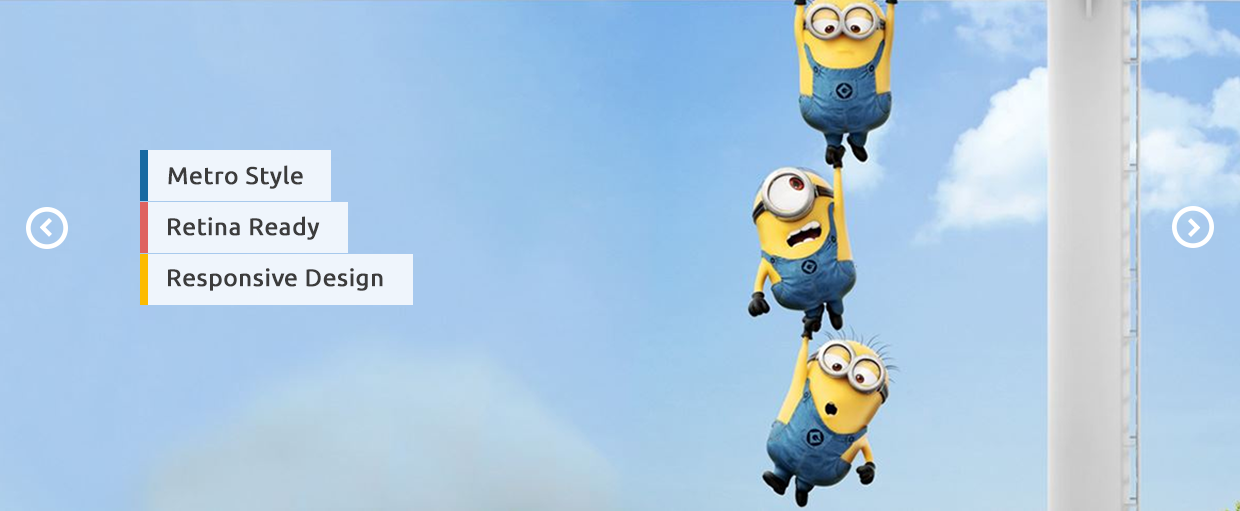
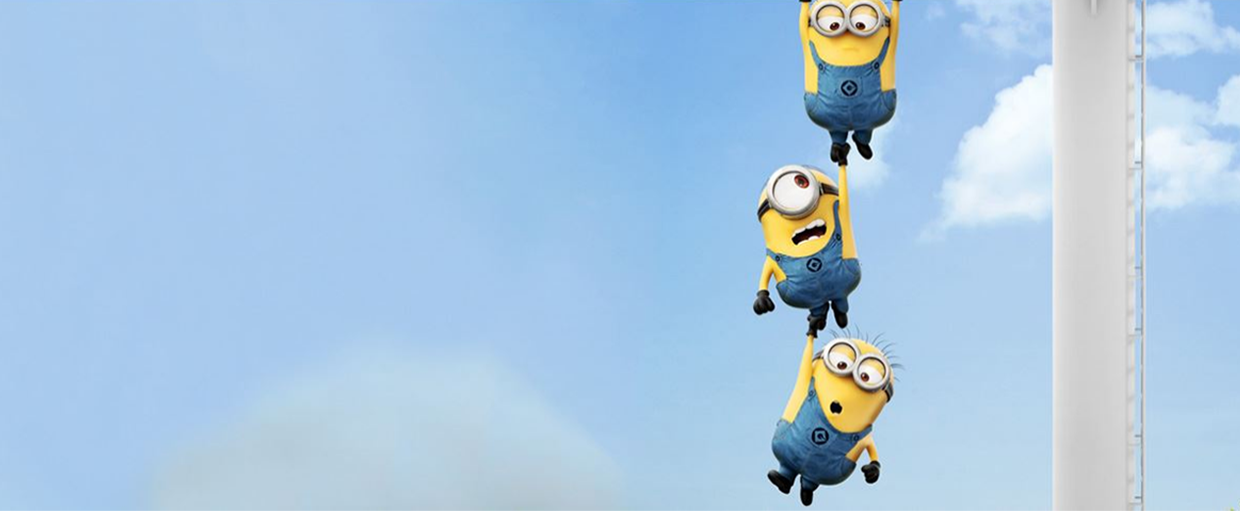
adding update to nav, minioncanvas and footer

diff --git a/index.html b/index.html
@@ -36,23 +36,23 @@
             </div>
           <div class="menu-item1">
               <a href="#"></a>
-              <img src="img/ico1.png" alt="Icon1"/>
+              <img src="img/ico1.png" alt="Icon1"/> 
               <p>Home</p>
             </div>
             <div class="menu-item2">
               <a href="#"></a>
               <img src="img/ico2.png" alt="Icon2"/>
-              <p>Pages</p>
+              <p>Pages &nbsp; &nbsp; &nbsp; &nbsp; ></p>
             </div>
             <div class="menu-item3">
               <a href="#"></a>
               <img src="img/ico3.png" alt="Icon3"/>
-              <p>Blog</p>
+              <p>Blog &nbsp; &nbsp; &nbsp; &nbsp; ></p>
             </div>
             <div class="menu-item4">
               <a href="#"></a>
               <img src="img/ico4.png" alt="Icon4"/>
-              <p>Portfolio</p>
+              <p>Portfolio &nbsp; &nbsp; &nbsp; &nbsp; ></p>
             </div>
             <div class="menu-item5">
               <a href="#"></a>
@@ -66,8 +66,17 @@
 
 
 <section class="minionheader">
-  <div class="content__headerimage"> 
+  <div class="content__headerimage">   <!-- container  -->
     <img src="img/minion_canvas.png" alt="Minion Canvas"/>
+    <div class = container_metrostyle>
+      <p style="color:rgb(0, 0, 0);">Metro Style</p>
+    </div>
+    <div class = container_retinaready>
+      <p style="color:rgb(0, 0, 0);">Retina Ready</p>
+    </div>
+    <div class = container_responsivedesign>
+      <p style="color:rgb(0, 0, 0);">Responsive Design</p>
+    </div>
   </div>
 </section>
 
@@ -155,40 +164,49 @@
 
 <section class="companies">
   <div class="content__companies">
+    <span class = cpny1>
     <img src="img/company1.png" alt="company1"/>
+    </span>
+    <span class = cpny2>
     <img src="img/company2.png" alt="company2"/>
+    </span>
+    <span class = cpny3>
     <img src="img/company3.png" alt="company3"/>
+    </span>
+    <span class = cpny4>
     <img src="img/company4.png" alt="company4"/>
+    </span>
+    <span class = cpny5>
     <img src="img/company5.png" alt="company5"/>
+    </span>
   </div>
 </section>
-  
-<h3 class="heading">
-      Pewee Herman Intro
-      </h3>
+
+
+<div class="topoffooter">  
+  <h3 class="heading">
+  <h4>Peewee Herman</h4>
+  <p>Peewee has over 10 years in the industry. He is our Creative Director. Digital designer, web designer and front-end developer. He is also pretty good with a sketch book. Before starting the company Peewee worked as a designer and studio manager for a design course who boasted a number of big name clients.</p>
+</div>
 
 <footer class="page__footer"> <!-- row  -->
-  <div class="column">           <!-- column  -->
-    <h4>Peewee Herman</h4>
-    <p>Peewee has over 10 years in the industry. He is our Creative Director. Digital designer, web designer and front-end developer. He is also pretty good with a sketch book. Before starting the company Peewee worked as a designer and studio manager for a design course who boasted a number of big name clients.</p>
-  </div>
-  <div class="column">
+  <div class="column">        <!-- column  -->
     <h4>About Us</h4>
     <p>Lorem ipsum dolor sit amet, consectetur adipiscing elit, sed do eiusmod tempor incididunt ut labore et dolore magna aliqua. Ut enim ad minim veniam, quis nostrud exercitation ullamco</p>
-    <img src="img/social1.png" alt="social1"/>
-    <img src="img/social2.png" alt="social2"/>
-    <img src="img/social3.png" alt="social3"/>
-    <img src="img/social4.png" alt="social4"/>
-    <img src="img/social5.png" alt="social5"/>
+    <img src="img/social1.png" alt="social1" width="50" height="50"/>
+    <img src="img/social2.png" alt="social2" width="50" height="50"/>
+    <img src="img/social3.png" alt="social3" width="50" height="50"/>
+    <img src="img/social4.png" alt="social4" width="50" height="50"/>
+    <img src="img/social5.png" alt="social5" width="50" height="50"/>
   </div>
   <div class="column">
     <h4>Flickr Photos</h4>
-    <img src="img/minion1.png" alt="minion1"/>
-    <img src="img/minion2.png" alt="minion2"/>
-    <img src="img/minion3.png" alt="minion3"/>
-    <img src="img/minion4.png" alt="minion4"/>
-    <img src="img/minion5.png" alt="minion5"/>
-    <img src="img/minion6.png" alt="minion6"/>
+    <img src="img/minion1.png" alt="minion1" width="100" height="100"/>
+    <img src="img/minion2.png" alt="minion2" width="100" height="100"/>
+    <img src="img/minion3.png" alt="minion3" width="100" height="100"/>
+    <img src="img/minion4.png" alt="minion4" width="100" height="100"/>
+    <img src="img/minion5.png" alt="minion5" width="100" height="100"/>
+    <img src="img/minion6.png" alt="minion6" width="100" height="100"/>
   </div>
   <div class="column">
       <h4>Recent Tweets</h4>
@@ -196,8 +214,8 @@
   <div class="column">
       <h4>Newsletter</h4>
       <p>Lorem ipsum dolor sit amet, consectetur adipiscing elit, sed do eiusmod tempor incididunt ut labore et dolore magna aliqua. Ut enim ad minim veniam, quis nostrud exercitation ullamco</p>
-      <img src="img/msg.png" alt="message"/>
-      <img src="img/bar.png" alt="colorbar"/>
+      <img src="img/msg.png" alt="message" width="260" height="60"/>
+      <img src="img/bar.png" alt="colorbar" width="260" height="60"/>
   </div>
 </footer>
         

diff --git a/css/main.css b/css/main.css
@@ -5,11 +5,21 @@
    * {
     box-sizing: border-box;
     text-align: center;
-    font-family: "Open Sans", sans-serif;
+    font-family: "Ubuntu", sans-serif;
+}
+
+h1, h2, h3, h4, h5 {
+    color: #494949;
+    margin: 10px;
+    margin-top: 40px;
 }
 
 p {
     color: #a3a3a3; 
+}
+
+.menu-item1 > p, .menu-item2 > p, .menu-item3 > p, .menu-item4 > p, .menu-item5 > p {
+    color: #ffffff; 
 }
 
 div,
@@ -26,8 +36,7 @@ h4 {
 header {
     display: flex;
     justify-content: center;
-    font-family: 'Ubuntu', serif;
-    color: white important!;
+    font-family: "Ubuntu", sans-serif;
 }
 
 .main-nav {
@@ -37,7 +46,6 @@ header {
 
 .menu-item0 {
     font-size: 30px;
-    font-style: bold;
     width:318px; 
     height:118px;
     display: flex;
@@ -102,27 +110,74 @@ header {
 }
 
 .content__headerimage, .content__thingsofabove { /* content 1 & 5*/
-    display: flex;
+    /* display: flex;
     flex-direction: row;
     justify-content: center;
-    align-items: center;
+    align-items: center; */
+
+    position: relative;
+    text-align: center;
+}
+
+/* minion canvas */
+.container_metrostyle, .container_retinaready, .container_responsivedesign {
+    position: absolute;
+    left: 20%;
+    transform: translate(-50%, -50%);
+    text-align: left;
+    font-size: 20px;
+    font-style: bold;
+}
+.container_metrostyle {
+    top: 200px;
+    background-color: white;
+    padding: 5px 10px;
+}
+
+.container_retinaready {
+    top: 250px;
+    background-color: white;
+    padding: 5px 10px;
+}
+
+.container_responsivedesign {
+    top: 300px;
+    background-color: white;
+    padding: 5px 10px;
 }
 
 .content__headerimage {
     background-color: #ccc;
 }
-
-.container {
+.container__companies {
     display: flex;
     justify-content: space-between;
 }
+.cpny1, .cpny1, .cpny3, .cpny4, .cpny5 {
+    display: inline-block;
+    margin: 23px;
+}
 
-.content__footer {
+.page__footer {
     text-align: left;
     display: grid;
-    grid-template-columns: 1fr 1fr;
-    grid-row-gap: 24px;
-    grid-column-gap: 16px;
+    grid-template-columns: 1fr 1fr 1fr 1fr;
+}
+
+footer {
+    background: #16242f;
+}
+
+footer > p {
+    color: white;
+}
+
+.footer > img {
+    display: block;
+    max-width:50px;
+    max-height:50px;
+    width: auto;
+     height: auto;
 }
 
 /* breakpoints */
@@ -139,7 +194,7 @@ header {
 }
 
 .menu-item {
-    padding: 0rem;  /* individual nav menu items */
+    padding: 0 rem;  /* individual nav menu items */
 }
 
 /* Small only */
